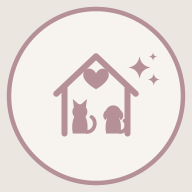
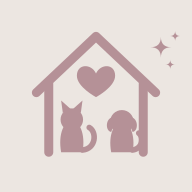
Add files via upload

Changed region(s): [[0.1562, 0.1562, 0.8438, 0.8125], [0.0312, 0.0312, 0.9688, 0.9688], [0.9062, 0.1562, 0.9375, 0.2188]]

diff --git a/index.html b/index.html
@@ -49,15 +49,18 @@
         }
 
         html, body {
-            overflow-x: hidden;
             -webkit-tap-highlight-color: transparent;
         }
         body { font-family: 'Cormorant', serif; background: var(--bg-deep); min-height: 100vh; padding: 20px; color: var(--text); line-height: 1.6; font-size: 18px; }
 
 
         h1, h2, h3 { font-family: 'Cormorant Unicase', serif; font-weight: 600; }
-        html, body { overflow-x: hidden; max-width: 100%; overscroll-behavior: none; -webkit-tap-highlight-color: transparent; }
-        body { touch-action: pan-x pan-y; -webkit-text-size-adjust: 100%; }
+        /* Zoom/horizontal-pan guards are mobile-only. On desktop, overflow-x:hidden on
+           html/body breaks mouse-wheel + keyboard scrolling (Chrome), so keep it off there. */
+        @media (max-width: 768px) {
+            html, body { overflow-x: hidden; max-width: 100%; overscroll-behavior: none; }
+            body { touch-action: pan-x pan-y; -webkit-text-size-adjust: 100%; }
+        }
         /* iOS ignores user-scalable=no and zooms when focusing inputs under 16px — force 16px on touch screens to stop it */
         @media (max-width: 768px) { input, select, textarea, .li-amount, .visit-price, .trc-mi-input, .mpb-mi-input { font-size: 16px !important; } }
         body.menu-open { overflow: hidden; }
@@ -105,9 +108,14 @@
             }
             /* Today's Schedule header + Kasey/Charlie filter on ONE line on mobile */
             .today-header-row {
+                display: flex;
+                align-items: center;
+                justify-content: space-between;
                 flex-wrap: nowrap;
                 gap: 8px;
             }
+            /* Drop the small status sub-line under the dashboard action buttons on mobile */
+            .dash-btn-status { display: none; }
             .today-header-row .card-title {
                 font-size: 1.05em;
                 flex: 0 1 auto;

diff --git a/clients.html b/clients.html
@@ -466,8 +466,11 @@
         ::-webkit-scrollbar-thumb:hover { background: var(--accent); }
     
         /* === MOBILE / HAMBURGER (appended at end so it wins the CSS cascade) === */
-        html, body { overflow-x: hidden; max-width: 100%; overscroll-behavior: none; -webkit-tap-highlight-color: transparent; }
-        body { touch-action: pan-x pan-y; -webkit-text-size-adjust: 100%; }
+        html, body { -webkit-tap-highlight-color: transparent; }
+        @media (max-width: 768px) {
+            html, body { overflow-x: hidden; max-width: 100%; overscroll-behavior: none; }
+            body { touch-action: pan-x pan-y; -webkit-text-size-adjust: 100%; }
+        }
         /* iOS ignores user-scalable=no and zooms when focusing inputs under 16px — force 16px on touch screens to stop it */
         @media (max-width: 768px) { input, select, textarea, .li-amount, .visit-price, .trc-mi-input, .mpb-mi-input { font-size: 16px !important; } }
         body.menu-open { overflow: hidden; }

diff --git a/invoices.html b/invoices.html
@@ -721,8 +721,11 @@
         ::-webkit-scrollbar-thumb:hover { background: var(--accent); }
     
         /* === MOBILE / HAMBURGER (appended at end so it wins the CSS cascade) === */
-        html, body { overflow-x: hidden; max-width: 100%; overscroll-behavior: none; -webkit-tap-highlight-color: transparent; }
-        body { touch-action: pan-x pan-y; -webkit-text-size-adjust: 100%; }
+        html, body { -webkit-tap-highlight-color: transparent; }
+        @media (max-width: 768px) {
+            html, body { overflow-x: hidden; max-width: 100%; overscroll-behavior: none; }
+            body { touch-action: pan-x pan-y; -webkit-text-size-adjust: 100%; }
+        }
         /* iOS ignores user-scalable=no and zooms when focusing inputs under 16px — force 16px on touch screens to stop it */
         @media (max-width: 768px) { input, select, textarea, .li-amount, .visit-price, .trc-mi-input, .mpb-mi-input { font-size: 16px !important; } }
         body.menu-open { overflow: hidden; }